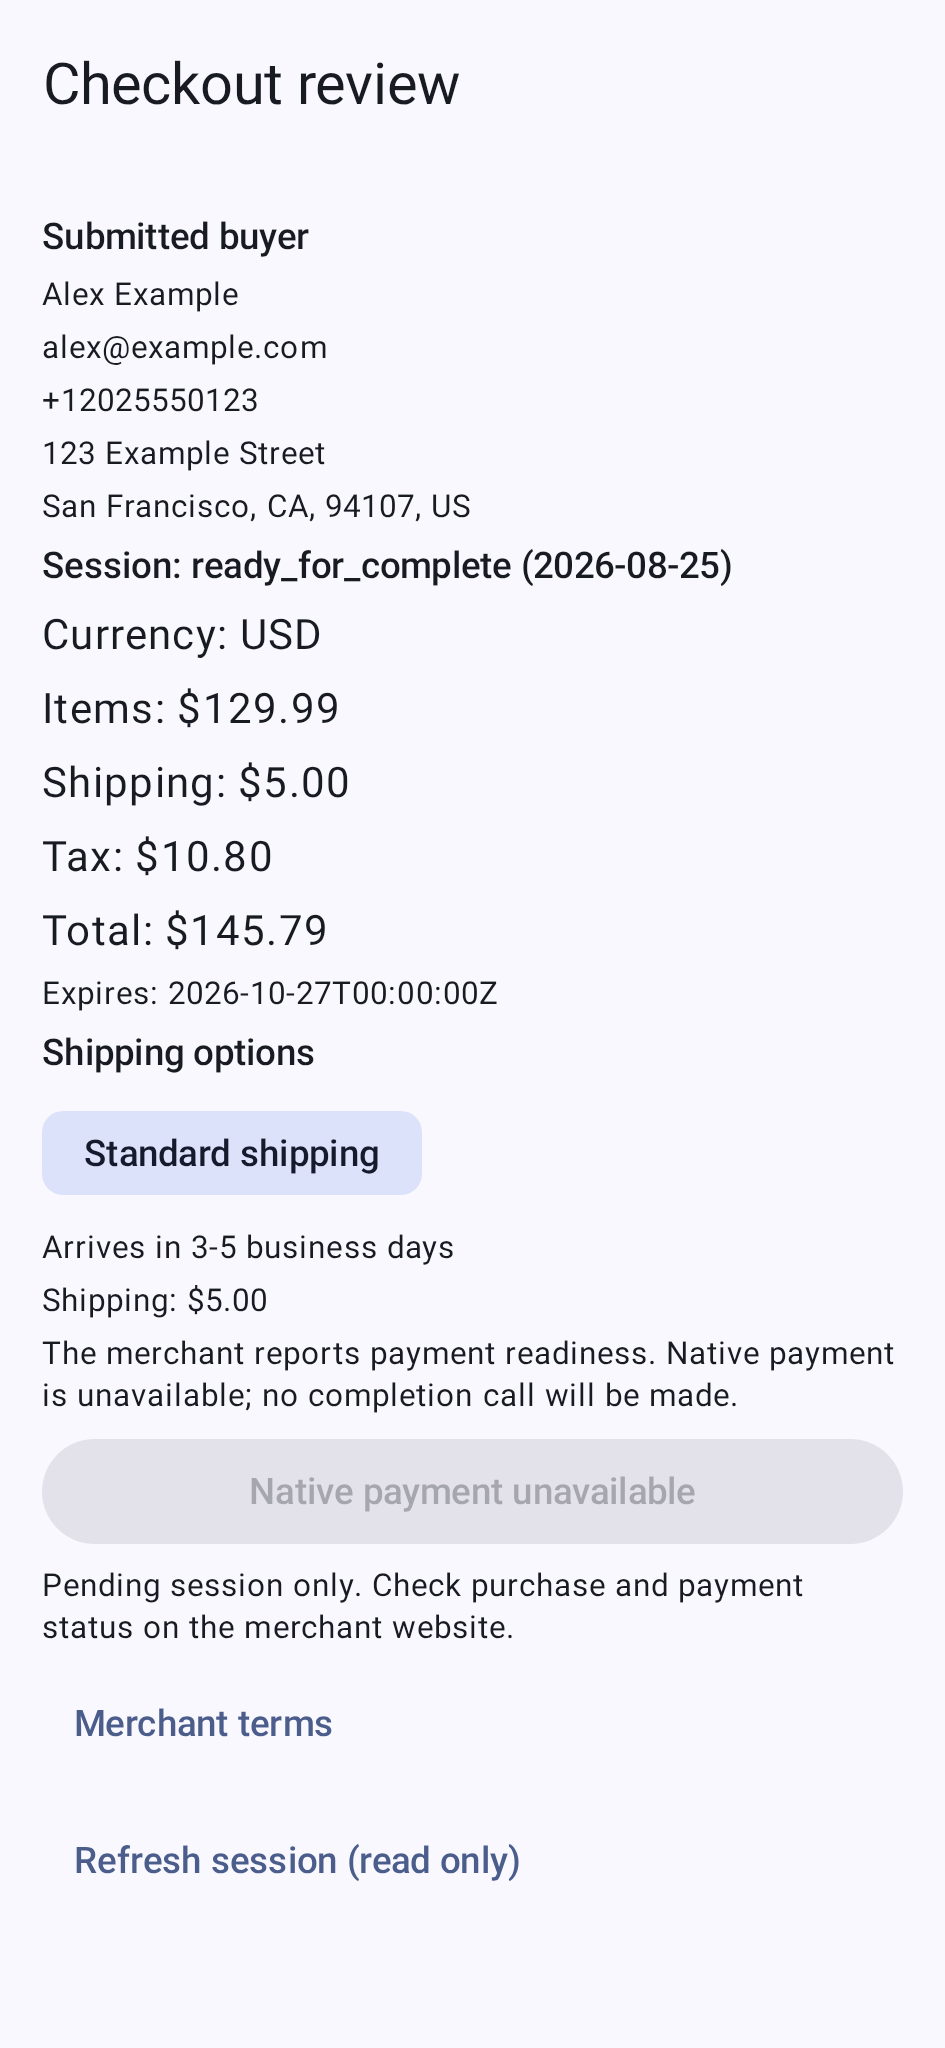
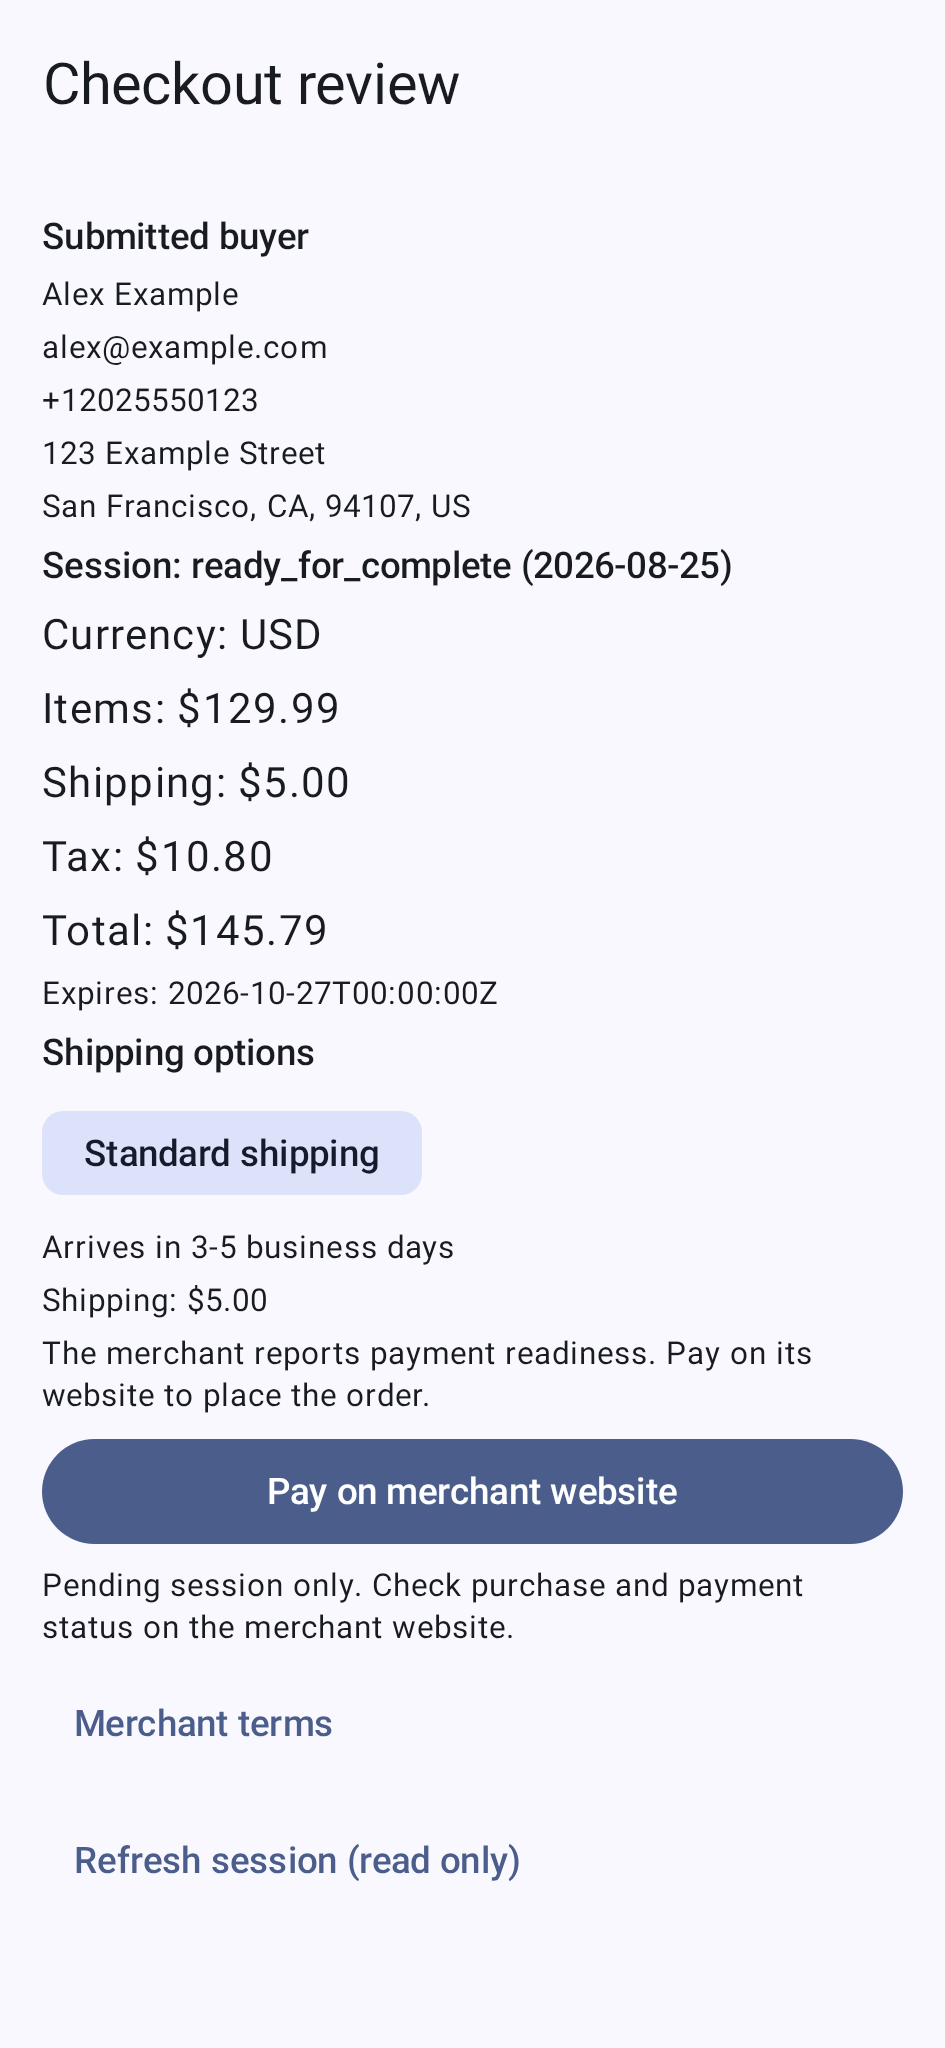
shop: replace disabled native-payment button with pay on merchant website

Changed region(s): [[0.0307, 0.6562, 0.9513, 0.7812]]

diff --git a/shop/src/main/java/com/vayunmathur/shop/ui/CheckoutReviewContent.kt b/shop/src/main/java/com/vayunmathur/shop/ui/CheckoutReviewContent.kt
@@ -13,6 +13,7 @@ import com.vayunmathur.library.ui.Text
 import com.vayunmathur.library.ui.TextButton
 import com.vayunmathur.shop.data.CheckoutInputs
 import com.vayunmathur.shop.data.NativeCheckoutState
+import com.vayunmathur.shop.domain.MerchantUrls
 import com.vayunmathur.shop.domain.MoneyFormat
 
 /** Pure session presentation shared by the live checkout and deterministic screenshot fixtures. */
@@ -60,8 +61,10 @@ internal fun CheckoutReviewContent(
                 }
             }
         }
-        if (checkout.status == "ready_for_complete") Text("The merchant reports payment readiness. Native payment is unavailable; no completion call will be made.", style = MaterialTheme.typography.bodySmall)
-        Button(onClick = {}, enabled = state.completionEnabled, modifier = Modifier.fillMaxWidth()) { Text("Native payment unavailable") }
+        if (checkout.status == "ready_for_complete") Text("The merchant reports payment readiness. Pay on its website to place the order.", style = MaterialTheme.typography.bodySmall)
+        MerchantUrls.httpsUrl(checkout.continueUrl)?.let { payUrl ->
+            Button(onClick = { onOpenUrl(payUrl) }, modifier = Modifier.fillMaxWidth()) { Text("Pay on merchant website") }
+        }
         Text("Pending session only. Check purchase and payment status on the merchant website.", style = MaterialTheme.typography.bodySmall)
         checkout.review.links.forEach { link ->
             TextButton(onClick = { onOpenUrl(link.url) }) { Text(link.title.ifBlank { link.type }) }

diff --git a/shop/src/main/java/com/vayunmathur/shop/ui/CheckoutScreen.kt b/shop/src/main/java/com/vayunmathur/shop/ui/CheckoutScreen.kt
@@ -88,12 +88,9 @@ fun CheckoutScreen(viewModel: ShopViewModel, onBack: () -> Unit) {
                             if (state.busy) CircularProgressIndicator()
                             else Text(if (checkout == null) "Create review session" else "Update review session")
                         }
-                        val browserUrl = checkout?.continueUrl?.let(MerchantUrls::httpsUrl)
-                            ?: MerchantUrls.domain(key.second)?.let { "https://$it" }
-                        if (browserUrl != null) {
-                            TextButton(onClick = { openContinueUrl(context, browserUrl) }) {
-                                Text(if (checkout?.continueUrl?.let(MerchantUrls::httpsUrl) != null) "Continue in browser" else "Open merchant website")
-                            }
+                        val merchantSiteUrl = MerchantUrls.domain(key.second)?.let { "https://$it" }
+                        if (checkout?.continueUrl?.let(MerchantUrls::httpsUrl) == null && merchantSiteUrl != null) {
+                            TextButton(onClick = { openContinueUrl(context, merchantSiteUrl) }) { Text("Open merchant website") }
                         }
                     }
                 }

diff --git a/shop/src/screenshotTest/kotlin/com/vayunmathur/shop/ui/CheckoutMetadataPreviews.kt b/shop/src/screenshotTest/kotlin/com/vayunmathur/shop/ui/CheckoutMetadataPreviews.kt
@@ -42,7 +42,7 @@ class CheckoutMetadataPreviews {
         checkout = UcpCheckout(
             checkoutId = "fixture-checkout", status = "ready_for_complete", currency = "USD",
             totals = UcpTotals(subtotal = totals.first().money, shipping = totals[1].money, tax = totals[2].money, total = totals.last().money),
-            totalEntries = totals, expiresAt = "2026-10-27T00:00:00Z",
+            totalEntries = totals, expiresAt = "2026-10-27T00:00:00Z", continueUrl = "https://trail.example/checkout",
             review = CheckoutReview(
                 shipping = listOf(CheckoutShippingMethod("fixture-shipping", listOf(
                     CheckoutShippingGroup("fixture-group", "fixture-standard", listOf(
